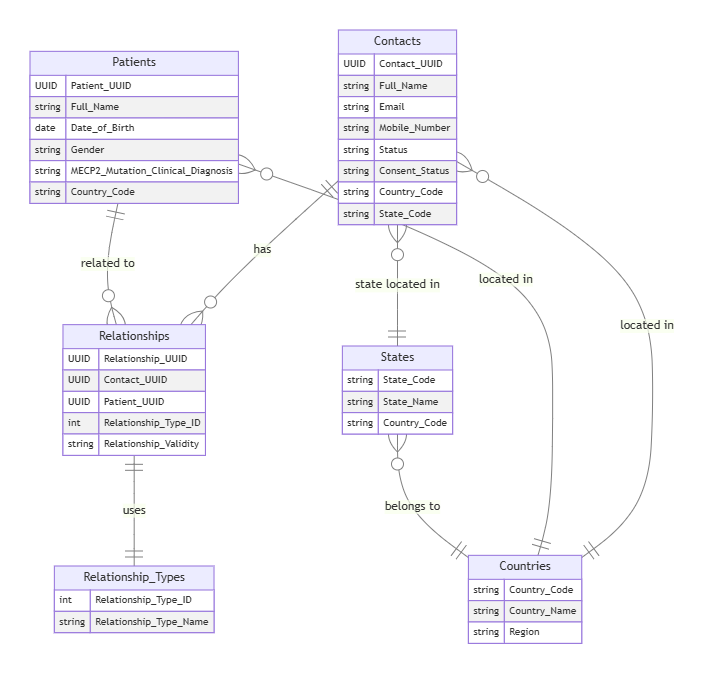
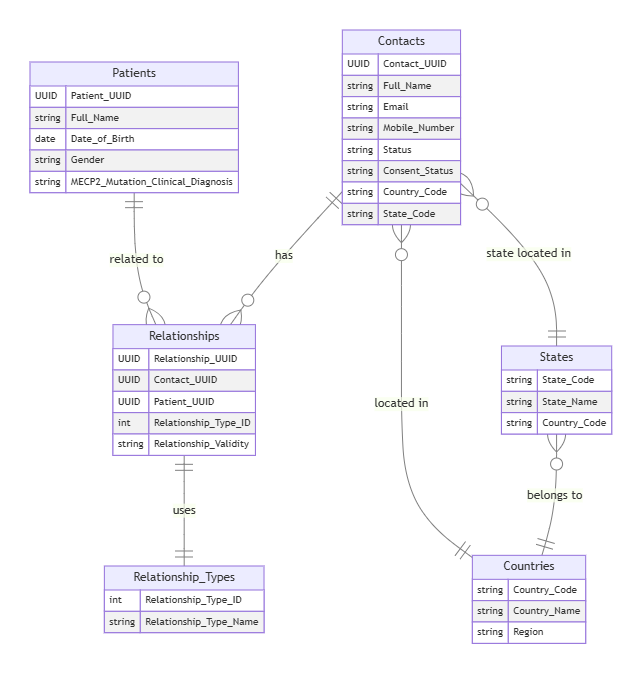
Correct datamodel

diff --git a/docs/index.html b/docs/index.html
@@ -19,7 +19,7 @@
         <li><a href="02a-Onboarding.html">Onboarding email verification process</a></li>
         <li><a href="03-StagingDatabase.html">Staging database</a></li>
         <li><a href="04-ProcessingData.html">Processing data</a></li>
-        <li><a href="05-DataModel.html">Data model</a></li>
+        <li><a href="05-DataModel.html">Core data model</a></li>
         <li><a href="06-BackofficeCRUD.html">Backoffice CRUD operations</a></li>
         <li><a href="07-LogitudinalData.html">Longitudinal data</a></li>
         <li><a href="08-SurveyManagement.html">Survey management</a></li>

diff --git a/docs/05-DataModel.md b/docs/05-DataModel.md
@@ -1,4 +1,4 @@
-# 5. Master Data
+# 5. Data model
 
 The Master Data section covers the main data structure for contacts, patients, and relationships. This database represents the final version of validated records.
 
@@ -28,7 +28,6 @@ erDiagram
         date Date_of_Birth
         string Gender
         string MECP2_Mutation_Clinical_Diagnosis
-        string Country_Code
     }
 
     Relationships {
@@ -61,7 +60,6 @@ erDiagram
     Relationships ||--|| Relationship_Types : "uses"
     Contacts }o--|| Countries : "located in"
     Contacts }o--|| States : "state located in"
-    Patients }o--|| Countries : "located in"
     States }o--|| Countries : "belongs to"
 ```
 
